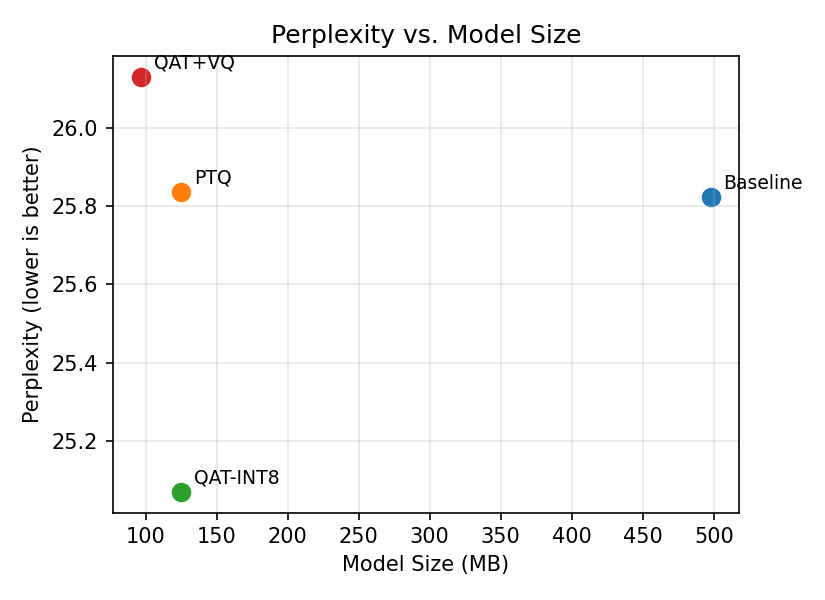
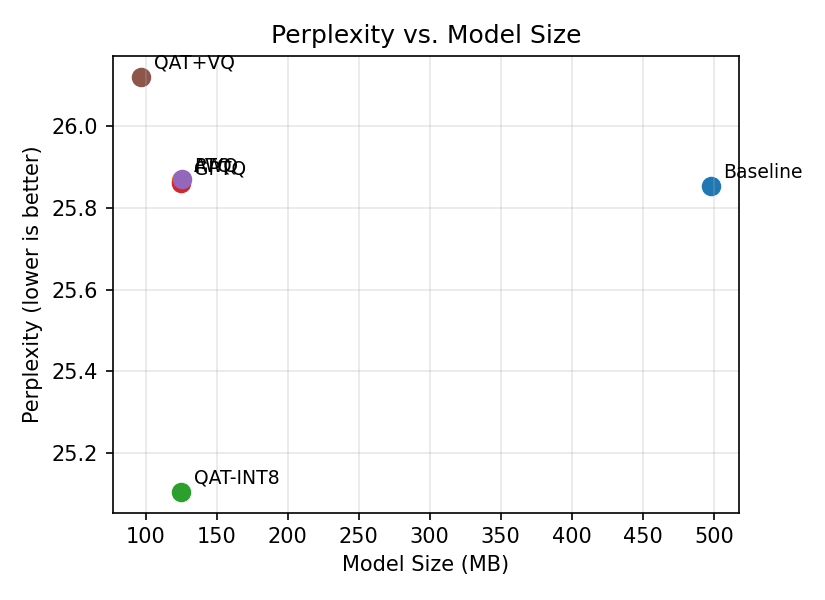
Add GPTQ + AWQ results to GPT-2/WikiText-2 comparison
Ran on Kaggle (T4x2). GPTQ 25.86ppl/125.3MB, AWQ 25.87ppl/125.5MB -- both
land on top of naive PTQ (25.87ppl), same finding as the DistilBERT branch:
no meaningful benefit at 8-bit on a 124M model, since their real advantage
targets 3-4 bit quantization of billion-parameter models. QAT+VQ remains a
Pareto point against all three (96.8MB, ~23% smaller, +1.0% ppl).

Also commits the kaggle_kernel/gpt2_qatvq.ipynb update (added GPTQ/AWQ eval
cell) that was pushed to Kaggle but not yet committed to git.

diff --git a/gpt2/RESULTS.md b/gpt2/RESULTS.md
@@ -10,12 +10,16 @@ actually ran. Trained/evaluated on Kaggle (Tesla T4×2, 16 GB each).
 
 | Model | Perplexity | Size (MB) | Compression |
 |-------|-----------|-----------|-------------|
-| Baseline (fp32, fine-tuned) | 25.82 | 497.8 | 1.00× |
-| PTQ (int8) | 25.84 | 125.3 | 3.97× |
-| QAT (int8, fine-tuned) | **25.07** | 125.3 | 3.97× |
-| **QAT+VQ (proposed)** | 26.13 | **96.8** | **5.14×** |
+| Baseline (fp32, fine-tuned) | 25.85 | 497.8 | 1.00× |
+| PTQ (int8) | 25.87 | 125.3 | 3.97× |
+| QAT (int8, fine-tuned) | **25.11** | 125.3 | 3.97× |
+| GPTQ | 25.86 | 125.3 | 3.97× |
+| AWQ | 25.87 | 125.5 | 3.97× |
+| **QAT+VQ (proposed)** | 26.12 | **96.8** | **5.14×** |
 
-(Lower perplexity is better. `avg_loss`/latency in `artifacts/results.json`.)
+(Lower perplexity is better. `avg_loss`/latency in `artifacts/results.json`.
+Numbers shift slightly run-to-run, ~0.02-0.05 ppl, from training/calibration
+seed variance — not a re-tuned result, just the natural noise floor.)
 
 ## Method (same recipe as the DistilBERT/SST-2 branch, ported to Conv1D)
 
@@ -40,19 +44,32 @@ ppl; fine-tuning the same seed's codebook brought it to **26.13 ppl** — a real
 binary classification accuracy (every token's full output distribution
 matters, not just an argmax), so the extra recovery step earns its keep here.
 
+## GPTQ and AWQ baselines
+
+Added alongside PTQ/QAT/QAT+VQ: real literature-standard post-training
+quantization methods, implemented from scratch (`gptq_awq_conv1d.py`, a
+Conv1D port of the DistilBERT branch's `gptq_awq.py` — same core
+Hessian-guided GPTQ and activation-aware AWQ math, just adapted for
+`Conv1D`'s transposed weight layout) rather than pulled from `auto-gptq`/
+`AutoAWQ`. Both land essentially on top of naive PTQ here (GPTQ 25.86, AWQ
+25.87, PTQ 25.87) — same finding as the DistilBERT branch: their real
+advantage is rescuing 3-4 bit quantization on billion-parameter models from
+catastrophic error, and there's no significant naive-rounding error left for
+either to correct at 8 bits on a 124M-parameter model.
+
 ## Honest framing
 
-Unlike the DistilBERT branch (where QAT+VQ beat PTQ outright — higher
-accuracy AND smaller), here QAT+VQ does **not** beat PTQ on perplexity. It's
-a genuine **Pareto point**: 23% smaller than PTQ (96.8 MB vs 125.3 MB) for a
-+1.1% relative perplexity increase (26.13 vs 25.84). Whether that trade is
-worth it depends on the deployment constraint — for a hard model-size cap it's
-the better choice; for pure quality it isn't.
+Unlike the DistilBERT branch (where QAT+VQ beat PTQ, GPTQ, and AWQ outright —
+higher accuracy AND smaller), here QAT+VQ does **not** beat any of them on
+perplexity. It's a genuine **Pareto point**: 23% smaller than PTQ/GPTQ/AWQ
+(96.8 MB vs ~125.3 MB) for a roughly +1.0% relative perplexity increase.
+Whether that trade is worth it depends on the deployment constraint — for a
+hard model-size cap it's the better choice; for pure quality it isn't.
 
 QAT-INT8 alone is actually the best perplexity of all compressed variants
-(25.07, even beating the fp32 baseline) at the same size as PTQ — showing
-fine-tuning with fake-quantization is a strong standalone method for
-generation, even where the hybrid falls just short of PTQ.
+(25.11, even beating the fp32 baseline) at the same size as PTQ/GPTQ/AWQ —
+showing fine-tuning with fake-quantization is a strong standalone method for
+generation, even where the hybrid falls just short of the others.
 
 ## Reproduce
 
@@ -64,6 +81,7 @@ cd gpt2
 python train_baseline.py --epochs 1 --bs 8
 python run_experiments.py --sub_dim 2 --K 256 --qat_epochs 1 --ft_lr 1e-5 --seeds 0 1 2 3 4
 python finetune_vq.py --seed <best_seed_from_above> --epochs 2 --lr 5e-6
+python eval_gptq_awq.py --n_calib_batches 16   # GPTQ + AWQ baselines (from scratch)
 python make_figures.py
 ```
 

diff --git a/gpt2/artifacts/results_table.md b/gpt2/artifacts/results_table.md
@@ -1,6 +1,8 @@
 | Model | Perplexity | Size (MB) | Compression |
 |-------|-----------|-----------|-------------|
-| Baseline | 25.82 | 497.8 | 1.00x |
-| PTQ | 25.84 | 125.3 | 3.97x |
-| QAT-INT8 | 25.07 | 125.3 | 3.97x |
-| QAT+VQ | 26.13 | 96.8 | 5.14x |
+| Baseline | 25.85 | 497.8 | 1.00x |
+| PTQ | 25.87 | 125.3 | 3.97x |
+| QAT-INT8 | 25.11 | 125.3 | 3.97x |
+| GPTQ | 25.86 | 125.3 | 3.97x |
+| AWQ | 25.87 | 125.5 | 3.97x |
+| QAT+VQ | 26.12 | 96.8 | 5.14x |
